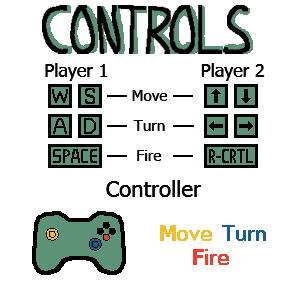
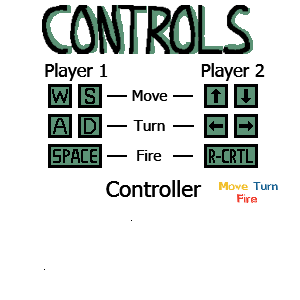
UI polish

diff --git a/Dualing Drivers/Project1/Game1.cs b/Dualing Drivers/Project1/Game1.cs
@@ -42,6 +42,8 @@ namespace Project1
         private Texture2D titleButtonTexture;
         private Texture2D restartButtonTexture;
         private Texture2D controlsButtonTexture;
+        private Texture2D Leftcontrol;
+        private Texture2D Rightcontrol;
 
         //UI textures
         private Texture2D healthFullText;
@@ -114,6 +116,7 @@ namespace Project1
         //Player ui
         private UIManager UIPOne;
         private UIManager UIPTwo;
+        private Button menuButton;
 
         //variable for menu selection delays
         private int menuDelay = 0;
@@ -121,7 +124,8 @@ namespace Project1
         //test variables
         bool testing = true;
         private int testCount = 0;
-
+        private bool player1C = true;
+        private bool player2C = true;
         // text fonts
         private SpriteFont text;
 
@@ -186,7 +190,8 @@ namespace Project1
             controlsText = Content.Load<Texture2D>("Controls");
             playerOneLabel = Content.Load<Texture2D>("Player1");
             playerTwoLabel = Content.Load<Texture2D>("Player2");
-
+            Leftcontrol = Content.Load<Texture2D>("leftcontrol");
+            Rightcontrol = Content.Load<Texture2D>("rightcontrol");
 
             //load tile textures
             groundText = Content.Load<Texture2D>("ground");
@@ -194,6 +199,7 @@ namespace Project1
             halfText = Content.Load<Texture2D>("HalfWallter");
             breakableText = Content.Load<Texture2D>("BreakWall");
             selectedText = Content.Load<Texture2D>("selectedTile");
+
 
             //load game object texture
             Bullettext = Content.Load<Texture2D>("Bullet");
@@ -256,7 +262,7 @@ namespace Project1
             titleScreen = new TitleScreen(playButtonTexture, LEButtonTexture, titleTexture, controlsButtonTexture);
 
             //load controls screen
-            controls = new Controls(controlsText, titleButtonTexture);
+            controls = new Controls(controlsText, titleButtonTexture,Leftcontrol,Rightcontrol);
 
             //load level select screen
             levelSelect = new LevelSelect(
@@ -392,6 +398,7 @@ namespace Project1
                             {
                                 tileManager.PreLoad(i);
                                 gameState = GameState.Game;
+                                menuButton = new Button(titleButtonTexture, 50, 20, titleButtonTexture.Width, titleButtonTexture.Height);
                             }
                         }
                     }
@@ -406,7 +413,10 @@ namespace Project1
                     {
                         gameState = GameState.GameOver;
                     }
-
+                    if(menuButton.Clicked(mouseState) && (mouseLastState.LeftButton != ms.ButtonState.Pressed))
+                    {
+                        gameState = GameState.Title;
+                    }
                     UpdateUI();
 
                     break;
@@ -431,6 +441,22 @@ namespace Project1
                     if (controls.menuButton.Clicked(mouseState) && (mouseLastState.LeftButton != ms.ButtonState.Pressed))
                     {
                         gameState = GameState.Title;
+                    }
+                    if (controls.leftControl1.Clicked(mouseState) && (mouseLastState.LeftButton != ms.ButtonState.Pressed))
+                    {
+                        player1C = false;
+                    }
+                    if (controls.rightControl1.Clicked(mouseState) && (mouseLastState.LeftButton != ms.ButtonState.Pressed))
+                    {
+                        player1C = true;
+                    }
+                    if (controls.leftControl2.Clicked(mouseState) && (mouseLastState.LeftButton != ms.ButtonState.Pressed))
+                    {
+                        player2C = false;
+                    }
+                    if (controls.rightControl2.Clicked(mouseState) && (mouseLastState.LeftButton != ms.ButtonState.Pressed))
+                    {
+                        player2C = true;
                     }
                     break;
             }
@@ -475,7 +501,7 @@ namespace Project1
                     _spriteBatch.Draw(playerOneLabel, new Vector2(25, 100), Color.White);
                     UIPTwo.Draw(_spriteBatch);
                     _spriteBatch.Draw(playerTwoLabel, new Vector2(25, 400), Color.White);
-
+                    menuButton.Draw(_spriteBatch);
                     // draws all power ups to screen if they're active
                     powerUpManager.DrawPowerUps(_spriteBatch);
                     break;
@@ -542,7 +568,7 @@ namespace Project1
             powerUps.Add(ammoPowerUp);
             powerUps.Add(healthPowerUp);
             powerUps.Add(speedPowerUp);*/
-            playerManager = new PlayerManager(PlayerText1, PlayerText2, player1Position, player2Position, Bullettext, PlayerCrash1, PlayerCrash2, powerUpManager.GetPowerUps());
+            playerManager = new PlayerManager(PlayerText1, PlayerText2, player1Position, player2Position, Bullettext, PlayerCrash1, PlayerCrash2, powerUpManager.GetPowerUps(),player1C, player2C);
             bulletManager = new BulletManager();
             playerManager.Player1.OnShoot += bulletManager.AddBullet;
             playerManager.Player2.OnShoot += bulletManager.AddBullet;

diff --git a/Dualing Drivers/Project1/Managers/PlayerManager.cs b/Dualing Drivers/Project1/Managers/PlayerManager.cs
@@ -15,7 +15,8 @@ namespace Project1.Managers
         // fields
         Player player1;
         Player player2;
-
+        private bool player1Control;
+        private bool player2Control;
         GamePadState gamePadState1 = GamePad.GetState(PlayerIndex.One);
         GamePadState gamePadState2 = GamePad.GetState(PlayerIndex.Two);
         GamePadState prevGamePadState1 = GamePad.GetState(PlayerIndex.One);
@@ -66,12 +67,14 @@ namespace Project1.Managers
         /// <summary>
         /// Basic Player Manager Constructor
         /// </summary>
-        public PlayerManager(Texture2D playerText1, Texture2D playerText2, Microsoft.Xna.Framework.Vector2 player1Position, Microsoft.Xna.Framework.Vector2 player2Position, Texture2D bulletTexture, Texture2D playerCrashedText1, Texture2D playerCrashedText2, List<PowerUp> powerUps)
+        public PlayerManager(Texture2D playerText1, Texture2D playerText2, Microsoft.Xna.Framework.Vector2 player1Position, Microsoft.Xna.Framework.Vector2 player2Position, Texture2D bulletTexture, Texture2D playerCrashedText1, Texture2D playerCrashedText2, List<PowerUp> powerUps,bool player1C,bool player2C)
         {
             playerList = new List<Player>();
             player1 = new Player(playerText1, 320, 360, 40, 40, 3, 2.8f, 1, 0, player1Position, player1Controls, bulletTexture, playerCrashedText1);
             player2 = new Player(playerText2, 960, 360, 40, 40, 3, 2.8f, 1, 180, player2Position, player2Controls, bulletTexture, playerCrashedText2);
-            
+
+            player1Control = player1C;
+            player2Control = player2C;
             playerList.Add(player1);
             playerList.Add(player2);
             this.powerUpList = powerUps;
@@ -113,11 +116,16 @@ namespace Project1.Managers
 
             //UPDATED MOVEMENT CODE
             //if there's a gamepad1, update using that
-            if (gamePadState1.IsConnected)
+            if (gamePadState1.IsConnected&&player1Control)
             {
                 player1.Move(gamePadState1);
                 player1.Shoot(gamePadState1, prevGamePadState1);
                 //player1.Move();
+            }
+            else if(gamePadState1.IsConnected && !player1Control)
+            {
+                player1.moveC(gamePadState1);
+                player1.Shoot(gamePadState1, prevGamePadState1);
             }
             //else update using keyboard
             else
@@ -126,9 +134,14 @@ namespace Project1.Managers
                 player1.Shoot();
             }
             //if there's a gamepad2, update using that
-            if (gamePadState2.IsConnected)
+            if (gamePadState2.IsConnected&&player2Control)
             {
                 player2.Move(gamePadState2);
+                player2.Shoot(gamePadState2, prevGamePadState2);
+            }
+            else if(gamePadState2.IsConnected && !player2Control)
+            {
+                player2.moveC(gamePadState2);
                 player2.Shoot(gamePadState2, prevGamePadState2);
             }
             //else update using keyboard

diff --git a/Dualing Drivers/Project1/Managers/Controls.cs b/Dualing Drivers/Project1/Managers/Controls.cs
@@ -12,22 +12,37 @@ namespace Project1.Managers
     {
         private Texture2D controlGraphic;
         private Texture2D menuButtonText;
+        private Texture2D lefttext;
+        private Texture2D righttext;
 
         public Button menuButton;
+        public Button leftControl1;
+        public Button rightControl1;
+        public Button leftControl2;
+        public Button rightControl2;
 
 
-
-        public Controls(Texture2D controlText, Texture2D menuText)
+        public Controls(Texture2D controlText, Texture2D menuText,Texture2D leftText,Texture2D rightText)
         {
             controlGraphic = controlText;
             menuButtonText = menuText;
+            lefttext=leftText;
+            righttext=rightText;
 
             menuButton = new Button(menuButtonText, 50, 50, menuButtonText.Width, menuButtonText.Height);
+            leftControl1=new Button(lefttext,450,500,lefttext.Width,lefttext.Height);
+            rightControl1 = new Button(righttext, 750, 500, righttext.Width, righttext.Height);
+            leftControl2=new Button(lefttext,450,600,lefttext.Width,lefttext.Height);
+            rightControl2=new Button(righttext,750,600,righttext.Width,righttext.Height);
         }
 
         public void Draw(SpriteBatch sb, GraphicsDeviceManager _graphics)
         {
             menuButton.Draw(sb);
+            leftControl1.Draw(sb);
+            rightControl1.Draw(sb);
+            leftControl2.Draw(sb);
+            rightControl2.Draw(sb);
             sb.Draw(controlGraphic, new Rectangle(_graphics.PreferredBackBufferWidth/2 - controlGraphic.Width, 10 ,controlGraphic.Width*2,controlGraphic.Height*2), Color.White);
         }
     }
